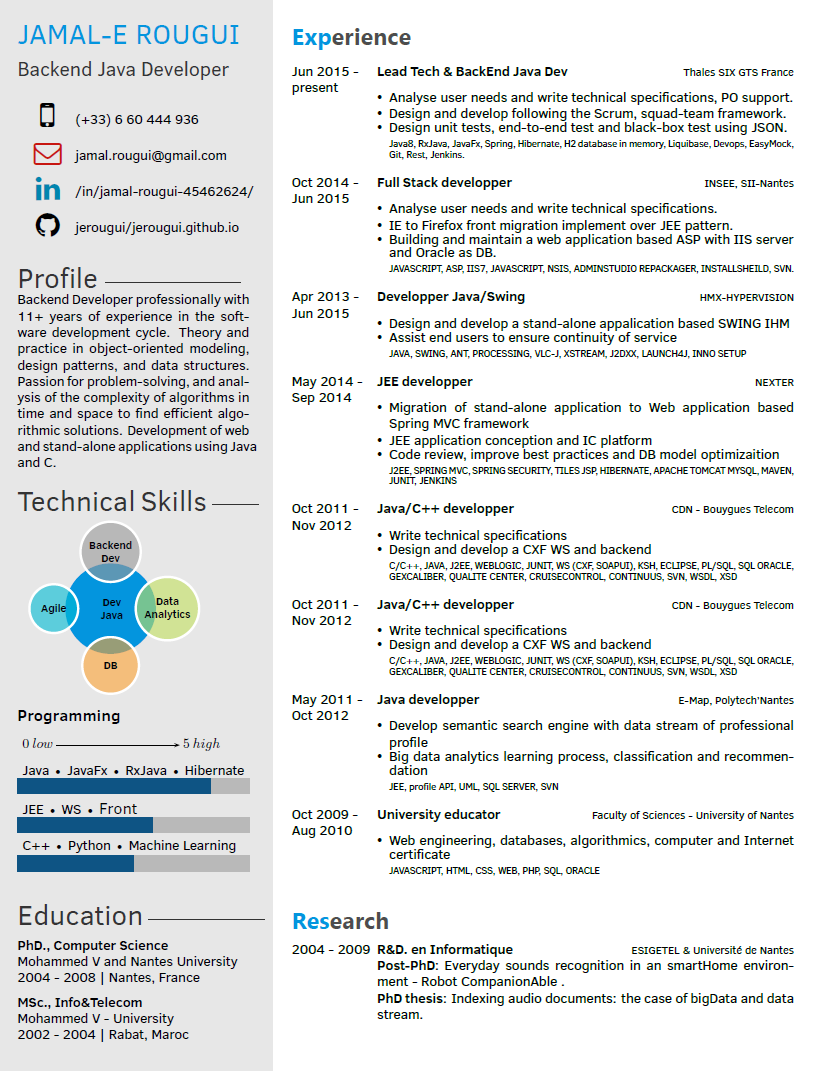
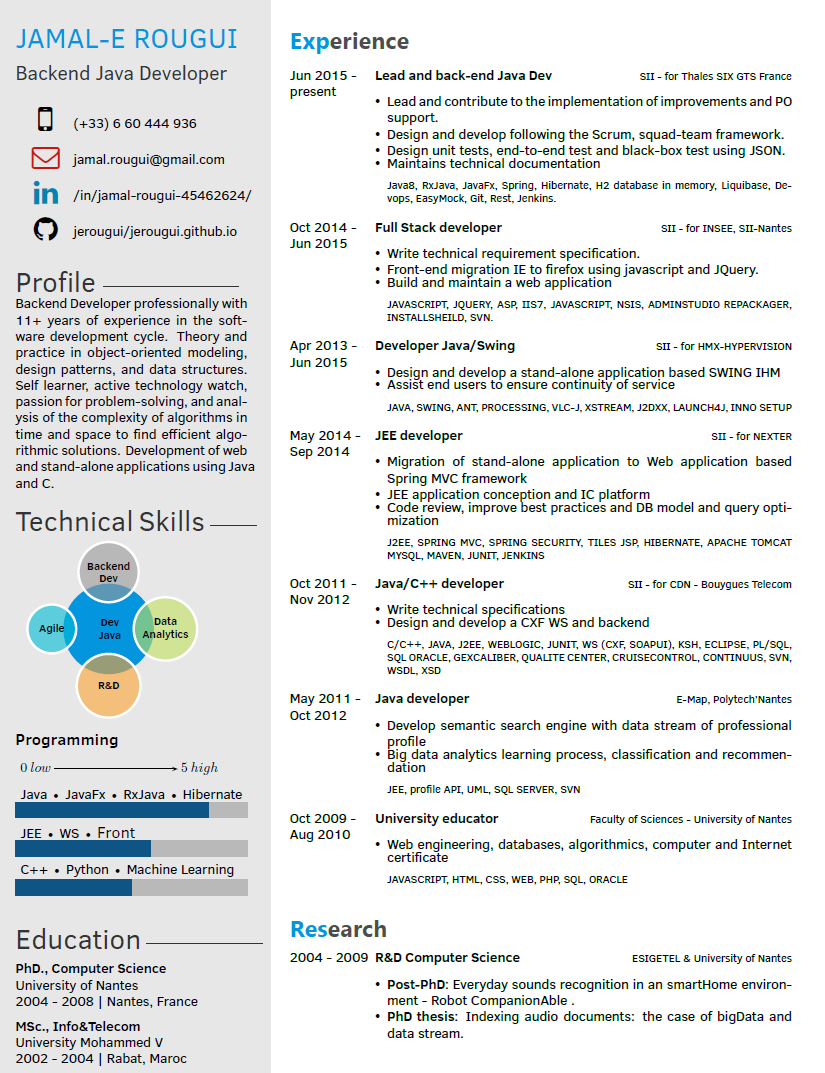
[2022-03] update screenshot of CV in english version

diff --git a/README.md b/README.md
@@ -1,13 +1,16 @@
 # Modèle de CV LaTeX
 
-Ceci est une version en français d'un modèle que j'utilise pour mon CV. Fortement inspiré des éléments de plusieurs modèles, notamment:
+Voici un template de mon Curriculum-vitae fortement inspiré des éléments de plusieurs modèles, notamment:
 
 1. [Harsh GADGIL Curriculum Vitae](https://github.com/opensorceror/Data-Engineer-Resume-LaTeX)
 2. [Curriculum Vitae Vingt Secondes de Carmine Spagnuolo](https://github.com/spagnuolocarmine/TwentySecondsCurriculumVitae-LaTex)
 3. [CV Smart Fancy LaTeX de Carmine Benedetto](https://github.com/neoben/smart-fancy-latex-cv)
 4. [CV de fantaisie d'Adrien Friggeri](https://www.sharelatex.com/templates/52fb8c1f33621a613683ecad)
 
+.[EN]
 ![Capture d'écran du CV](screen_EN.png)
+
+.[FR]
 ![Capture d'écran du CV](screen_FR.png)
 
 ## Installation des prérequis (Windows)
